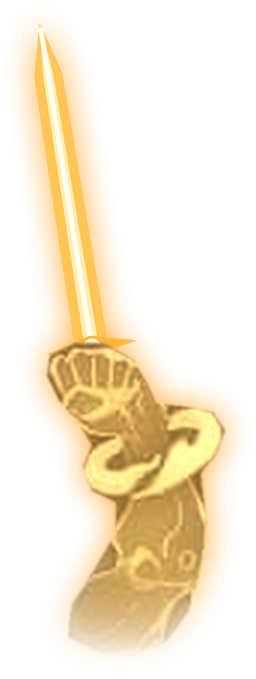
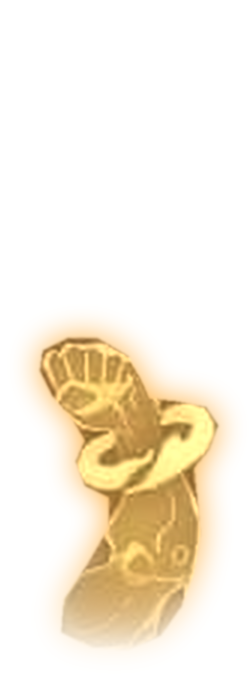
vfx-lab: Thần Thức Trảm — bỏ kiếm, nắm tay bọc luồng kiếm khí vuốt nhọn thành lưỡi (chớp nháy như lửa)
Claude-Session: https://claude.ai/code/session_014A94BHnyL4tu48AS77QbVM

diff --git a/src/vfx/skillFx.ts b/src/vfx/skillFx.ts
@@ -946,20 +946,23 @@ const nguyenAnh: Fx = (s, aw) => {
   k.later(dur + 50, () => { ev.remove(); sp.forEach((i) => i.destroy()); halo.forEach((i) => i.destroy()); });
 };
 
-/** Tay khí vàng cầm kiếm (tools/art/qi_arm.py, từ ảnh mẫu pháp tướng nhiều tay) — dựng đứng, mũi kiếm lên trên */
+/** Tay khí vàng (tools/art/qi_arm.py, từ ảnh mẫu pháp tướng nhiều tay) + luồng KIẾM KHÍ bọc nắm tay vuốt thành lưỡi
+ *  (ảnh riêng cùng khung) — dựng đứng, mũi luồng khí ở trên */
 export const QI_ARM = 'vx_qi_arm';
-const QI_ARM_PIVOT: [number, number] = [0.406, 0.739];                     // cổ tay (điểm xoay khi chém)
+export const QI_AURA = 'vx_qi_aura';
+const QI_ARM_PIVOT: [number, number] = [0.39, 0.737];                      // cổ tay (điểm xoay khi chém)
+const QI_ARM_REACH = 495;                                                  // cổ tay → mũi luồng kiếm khí (px ảnh)
 
 /**
- * THẦN THỨC TRẢM — thần thức hoá thành TAY KHÍ cầm kiếm: hiện ra trên đầu nhân vật, mỗi tay bay tới một kẻ địch gần đó,
- * giơ kiếm rồi bổ xuống (vệt chém vàng theo mũi kiếm), xong bay về và tan.
+ * THẦN THỨC TRẢM — thần thức hoá thành TAY KHÍ, nắm tay bọc LUỒNG KIẾM KHÍ vuốt nhọn thành lưỡi: hiện ra trên đầu
+ * nhân vật, mỗi tay bay tới một kẻ địch gần đó, vung luồng kiếm khí bổ xuống (vệt chém vàng theo mũi), xong bay về và tan.
  *   thường: 2 tay (trái/phải) · thức tỉnh: 6 tay xếp như pháp tướng (3 tầng mỗi bên), chém 6 mục tiêu so le.
  */
 const thanThuc: Fx = (s, aw) => {
   const k = s.kit, sc = k.scene, hero = s.hero;
   const N = aw ? 6 : 2;
   const SC = aw ? 0.17 : 0.16;                                             // tay+kiếm cao ≈ 110px
-  const SWORD = 679 * QI_ARM_PIVOT[1] * SC;                                 // cổ tay → mũi kiếm (px)
+  const SWORD = QI_ARM_REACH * SC;                                         // cổ tay → mũi luồng kiếm khí (px)
   // chỗ tay hiện ra quanh đầu nhân vật: [dx, dy, nghiêng]
   const SLOTS: [number, number, number][] = aw
     ? [[-34, -78, -0.25], [34, -78, 0.25], [-62, -52, -0.6], [62, -52, 0.6], [-52, -18, -1.0], [52, -18, 1.0]]
@@ -975,6 +978,18 @@ const thanThuc: Fx = (s, aw) => {
     const h0 = home();
     const arm = sc.add.image(h0.x, h0.y, QI_ARM).setOrigin(QI_ARM_PIVOT[0], QI_ARM_PIVOT[1]).setDepth(21)
       .setScale(SC * 0.5).setAlpha(0).setRotation(tilt).setFlipX(side < 0);
+    // luồng kiếm khí: chồng khít lên tay (cộng sáng), chớp nháy + phập phồng như lửa
+    const aura = sc.add.image(h0.x, h0.y, QI_AURA).setOrigin(QI_ARM_PIVOT[0], QI_ARM_PIVOT[1]).setDepth(21.1)
+      .setBlendMode(Phaser.BlendModes.ADD).setFlipX(side < 0).setAlpha(0);
+    const ph = Math.random() * 10;
+    const follow = (time: number) => {
+      if (!arm.active) { sc.events.off('update', follow); if (aura.active) aura.destroy(); return; }
+      const fl = 1 + 0.06 * Math.sin(time / 45 + ph) + 0.04 * Math.sin(time / 23 + ph * 2);
+      aura.setPosition(arm.x, arm.y).setRotation(arm.rotation)
+        .setScale(arm.scaleX * (0.96 + 0.08 * Math.sin(time / 60 + ph)), arm.scaleY * fl)
+        .setAlpha(arm.alpha * (0.85 + 0.15 * Math.sin(time / 37 + ph)));
+    };
+    sc.events.on('update', follow);
     const delay = aw ? i * 90 : i * 180;
     // hiện ra
     k.later(delay, () => k.glow(h0.x, h0.y - 20, 0xffc850, 50, 300, { alpha: 0.6 }));

diff --git a/src/vfxlab/main.ts b/src/vfxlab/main.ts
@@ -6,7 +6,7 @@ import Phaser from 'phaser';
 import { SKILLS, skillIcon, type SkillDef } from '../config/skills';
 import { makeVfxTextures, VT } from '../vfx/textures';
 import { VfxKit, type Pt } from '../vfx/VfxKit';
-import { SKILL_FX, QI_SWORD, BA_DAO_DIRS, SPEAR_TEX, FIST_TEX, ARROW_HEAD, TIGER_HEAD, SHOCK_T3, SHOCK_T6, FIRE_TEX, BURN_TEX, FIRE_SWIRL, DRAGON_TEX, QI_ARM, SPIRIT_ORB, ORB_BOLT, baDaoKey, baDaoWaveKey, type Stage } from '../vfx/skillFx';
+import { SKILL_FX, QI_SWORD, BA_DAO_DIRS, SPEAR_TEX, FIST_TEX, ARROW_HEAD, TIGER_HEAD, SHOCK_T3, SHOCK_T6, FIRE_TEX, BURN_TEX, FIRE_SWIRL, DRAGON_TEX, QI_ARM, QI_AURA, SPIRIT_ORB, ORB_BOLT, baDaoKey, baDaoWaveKey, type Stage } from '../vfx/skillFx';
 
 interface Dummy extends Pt {
   img: Phaser.GameObjects.Image;
@@ -39,7 +39,8 @@ class LabScene extends Phaser.Scene {
     for (const [key, f] of [[SHOCK_T3, 'shock_t3'], [SHOCK_T6, 'shock_t6']]) this.load.spritesheet(key, `/vfx/${f}.png?v=1`, { frameWidth: 256, frameHeight: 159 });
     for (const [n, key] of Object.entries(DRAGON_TEX)) for (const sf of ['', '_aw']) this.load.image(key + sf, `/vfx/dragon_${n}${sf}.png?v=4`);
     this.load.image(ORB_BOLT, '/vfx/orb_bolt.png?v=1');
-    this.load.image(QI_ARM, '/vfx/qi_arm.png?v=1');
+    this.load.image(QI_ARM, '/vfx/qi_arm.png?v=2');
+    this.load.image(QI_AURA, '/vfx/qi_aura.png?v=1');
     this.load.spritesheet(SPIRIT_ORB, '/vfx/spirit_orb.png?v=1', { frameWidth: 96, frameHeight: 96 });
     for (const [n, key] of Object.entries(BURN_TEX)) this.load.spritesheet(key, `/vfx/burn_${n}.png?v=2`, { frameWidth: 256, frameHeight: 201 });
     for (const [n, key] of Object.entries(BURN_TEX)) this.load.spritesheet(key + '_blue', `/vfx/burn_${n}_blue.png?v=1`, { frameWidth: 256, frameHeight: 201 });
